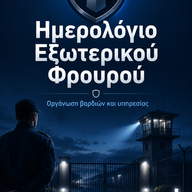
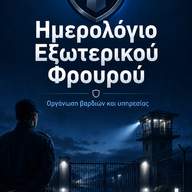
Add files via upload

diff --git a/index.html b/index.html
@@ -3,7 +3,7 @@
 <head>
 <meta charset="UTF-8">
 <meta name="viewport" content="width=device-width, initial-scale=1.0">
-<title>Ημερολόγιο Βαρδιών v33</title>
+<title>Ημερολόγιο Εξωτερικού Φρουρού</title>
 <link rel="manifest" href="manifest.webmanifest">
 <meta name="theme-color" content="#223247">
 <link rel="apple-touch-icon" href="icon-192.png">